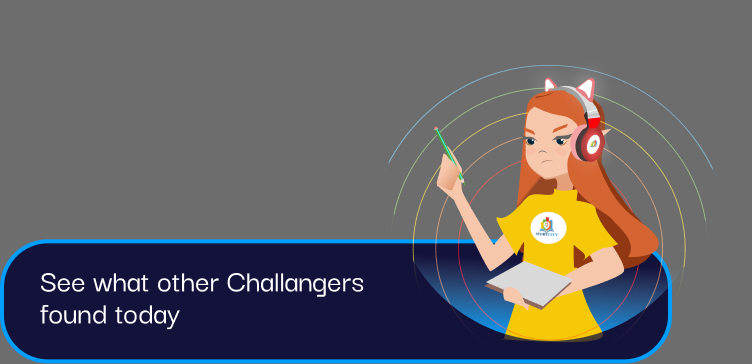
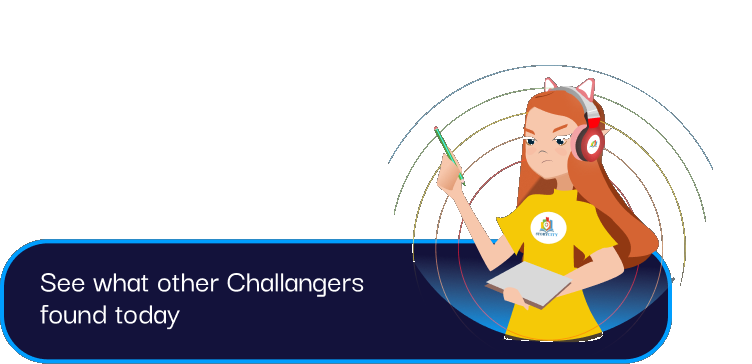
Victoria: clear gray plates on find/tip/plane parts - knock out Figma export gray so layers sit clean - bump ?v=6b

diff --git a/daily-side-quests/index.html b/daily-side-quests/index.html
@@ -8,7 +8,7 @@
 <link rel="preconnect" href="https://fonts.googleapis.com">
 <link rel="preconnect" href="https://fonts.gstatic.com" crossorigin>
 <link href="https://fonts.googleapis.com/css2?family=Darker+Grotesque:wght@500;700;800;900&display=swap" rel="stylesheet">
-<link rel="stylesheet" href="app.css?v=6">
+<link rel="stylesheet" href="app.css?v=6b">
 <meta http-equiv="Cache-Control" content="no-cache">
 </head>
 <body>
@@ -31,10 +31,10 @@
     <img class="scene" id="scene" src="assets/flow/01.png?v=6" alt="" decoding="async">
 
     <div class="map-stage" id="mapStage" hidden>
-      <img class="map-fill" src="assets/parts/map-hunt.png?v=6" alt="" decoding="async">
+      <img class="map-fill" src="assets/parts/map-hunt.png?v=6b" alt="" decoding="async">
 
-      <img class="find-card" id="findCard" src="assets/parts/footprint.png?v=6" alt="" decoding="async" hidden>
-      <img class="find-plane" id="findPlane" src="assets/parts/airplanes.png?v=6" alt="" decoding="async" hidden>
+      <img class="find-card" id="findCard" src="assets/parts/footprint.png?v=6b" alt="" decoding="async" hidden>
+      <img class="find-plane" id="findPlane" src="assets/parts/airplanes.png?v=6b" alt="" decoding="async" hidden>
 
       <!-- Empty map Group 20198: x=124 y=656 w=129 h=38 — three 38px cells -->
       <div class="slots" id="slots" aria-hidden="true">
@@ -43,7 +43,7 @@
         <div class="slot-cell" data-slot="2"><img class="slot" alt=""></div>
       </div>
 
-      <img class="tip-layer" id="tipLayer" src="assets/parts/tip.png?v=6" alt="" decoding="async" hidden>
+      <img class="tip-layer" id="tipLayer" src="assets/parts/tip.png?v=6b" alt="" decoding="async" hidden>
 
       <img class="fly-thumb" id="flyThumb" alt="" hidden>
 
@@ -88,6 +88,6 @@
   <p class="meta">
     Separated Figma parts + app CameraSheet. Capture flies into the progress slots.
   </p>
-  <script src="app.js?v=6"></script>
+  <script src="app.js?v=6b"></script>
 </body>
 </html>
